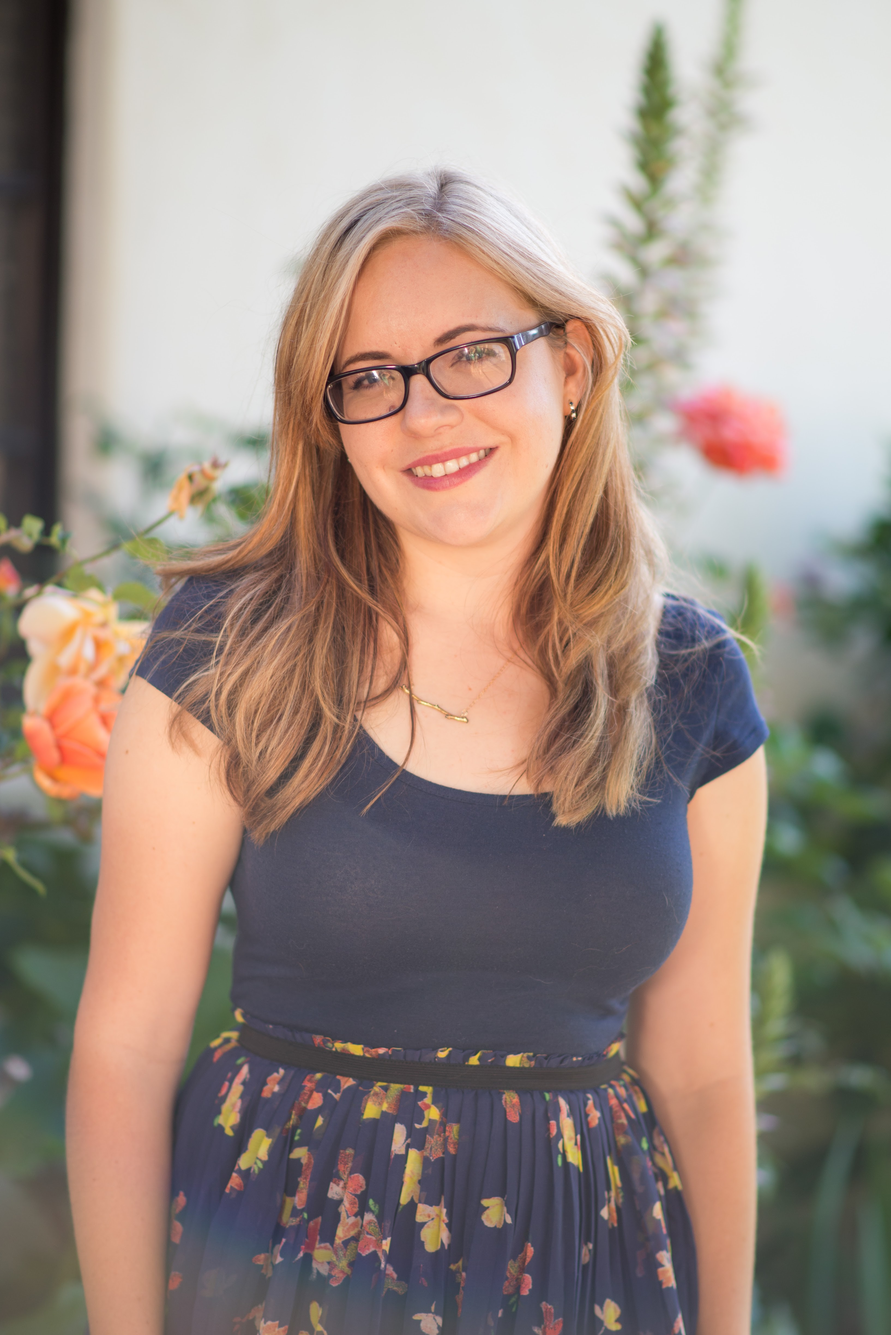
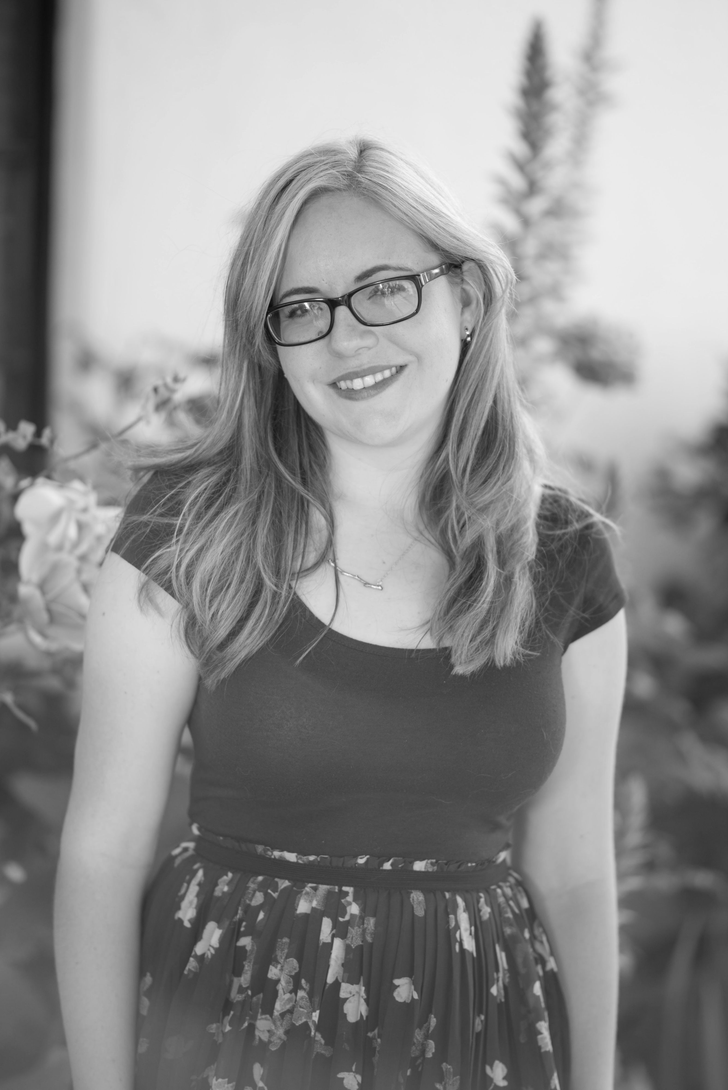
added dummy post and fixed rendering issue and changed author image

diff --git a/_layouts/default.html b/_layouts/default.html
@@ -6,7 +6,6 @@
   <body>
 
     {% include header.html %}
-    <link rel="shortcut icon" type="image/x-icon" href="/favicon.ico?">
 
     <!-- content start -->
 
